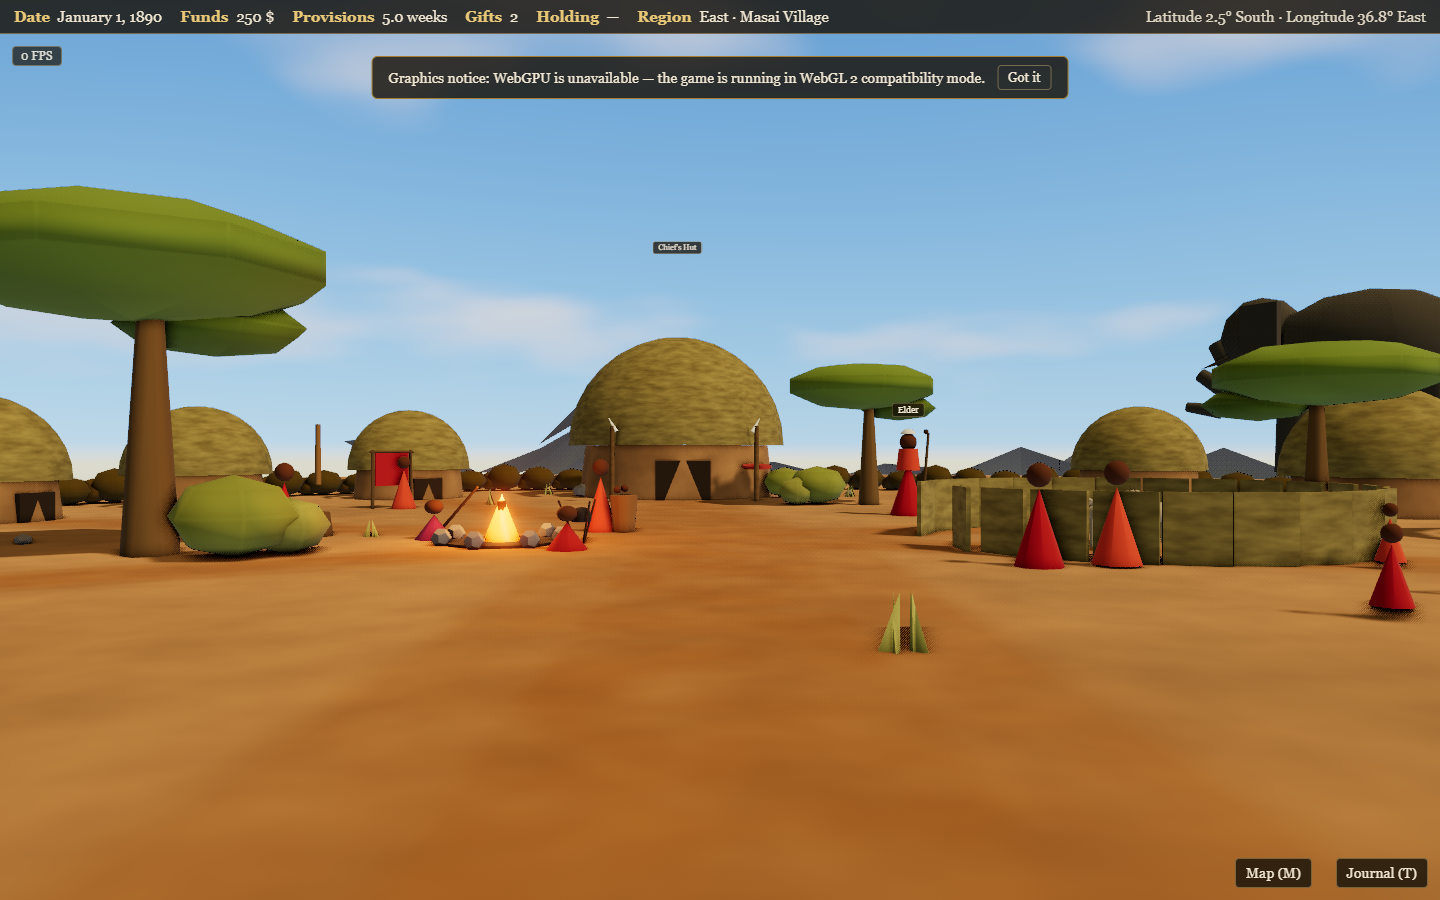
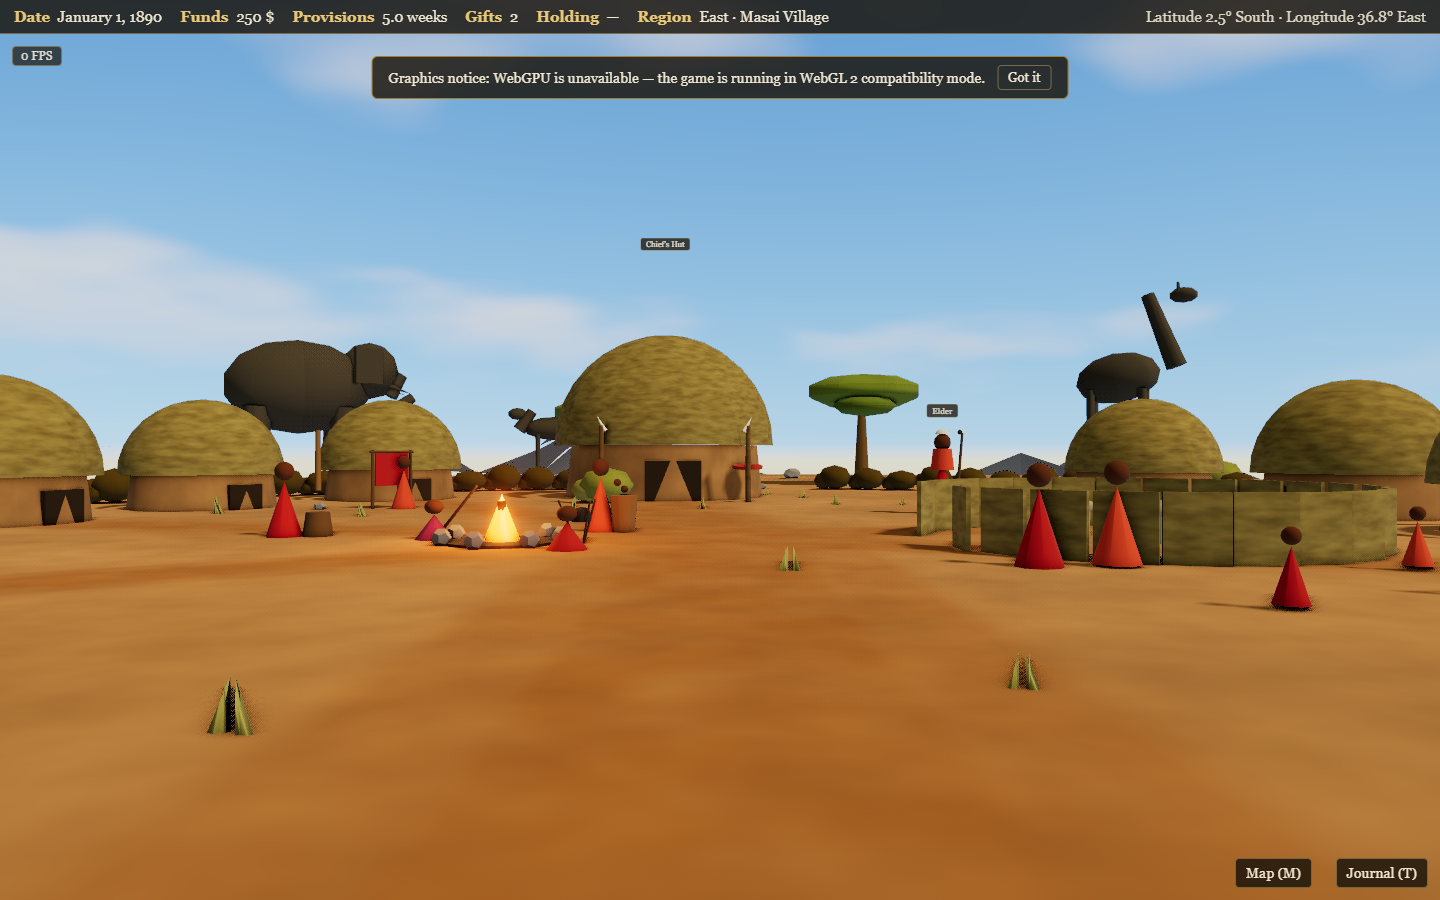
Dress the elephant graveyard with fallen carcasses and strewn ivory
The graveyard was only a floating label. It now renders as a recognizable
site (design.md §4.4/§19): a pale, bone-littered ground patch with eight
fallen, bleached elephant carcasses lying on their sides and scattered
ivory tusks and rib bones, laid out seeded per run. New ElephantGraveyard
component in the bird's-eye scene plus a __graveyard dev hook.

Verification: enrichments.mjs asserts the carcass/tusk/bone counts via
the dev hook and captures a screenshot of the site.

diff --git a/src/scenes/travel/TravelScene.tsx b/src/scenes/travel/TravelScene.tsx
@@ -47,6 +47,8 @@ import {
   buildRock,
   buildTermiteMound,
 } from '../../render/flora'
+import { buildElephant } from '../../render/fauna'
+import { mulberry32 } from '../../world/noise'
 import { Climate } from './Climate'
 import { RegionBorders } from './RegionBorders'
 import { Wildlife } from './Wildlife'
@@ -746,6 +748,103 @@ function HiddenCross({ lat, lon, label, scale = 1 }: { lat: number; lon: number;
   )
 }
 
+/**
+ * Elephant graveyard (design.md §4.4/§19): the site is recognizable from afar
+ * by a field of fallen, bleached elephant carcasses and scattered ivory tusks
+ * and bones over a bone-strewn patch of ground. Layout is seeded per run.
+ */
+function ElephantGraveyard() {
+  const seed = useGame((s) => s.seed)
+  const layout = useMemo(() => {
+    const g = ELEPHANT_GRAVEYARD
+    const center = latLonToWorld(g.lat, g.lon)
+    const groundY = Math.max(0.2, sampleTerrain(g.lat, g.lon, seed).height)
+    const rand = mulberry32((seed ^ 0x51ef4a2d) >>> 0)
+    const carcasses = Array.from({ length: 8 }, () => {
+      const a = rand() * Math.PI * 2
+      const r = 1 + rand() * 4.5
+      return {
+        x: Math.cos(a) * r,
+        z: Math.sin(a) * r,
+        yaw: rand() * Math.PI * 2,
+        roll: (rand() < 0.5 ? 1 : -1) * (Math.PI / 2 + (rand() - 0.5) * 0.35),
+        s: 0.85 + rand() * 0.45,
+      }
+    })
+    const scatter = (n: number) =>
+      Array.from({ length: n }, () => {
+        const a = rand() * Math.PI * 2
+        const r = rand() * 6.5
+        return { x: Math.cos(a) * r, z: Math.sin(a) * r, rot: rand() * Math.PI * 2, tilt: (rand() - 0.5) * 0.5, s: 0.6 + rand() * 0.7 }
+      })
+    return { center, groundY, carcasses, tusks: scatter(22), bones: scatter(16) }
+  }, [seed])
+
+  const elephantGeo = useMemo(() => buildElephant(), [])
+  // Bleached carcass/bone material (flat, ignores the elephant's vertex colors).
+  const boneMat = useMemo(() => new THREE.MeshStandardMaterial({ color: '#c7bda6', roughness: 1, vertexColors: false }), [])
+  const ivoryMat = useMemo(() => new THREE.MeshStandardMaterial({ color: '#e9dec6', roughness: 0.65 }), [])
+  const tuskGeo = useMemo(() => {
+    const g = new THREE.ConeGeometry(0.1, 1.3, 6)
+    g.rotateZ(Math.PI / 2)
+    return g
+  }, [])
+  const ribGeo = useMemo(() => {
+    const g = new THREE.CylinderGeometry(0.05, 0.06, 1.0, 5)
+    g.rotateZ(Math.PI / 2)
+    return g
+  }, [])
+
+  useEffect(() => {
+    if (!import.meta.env.DEV) return
+    const w = window as unknown as Record<string, unknown>
+    w.__graveyard = {
+      carcasses: layout.carcasses.length,
+      tusks: layout.tusks.length,
+      bones: layout.bones.length,
+      x: layout.center.x,
+      z: layout.center.z,
+    }
+    return () => {
+      delete w.__graveyard
+    }
+  }, [layout])
+
+  return (
+    <group position={[layout.center.x, layout.groundY, layout.center.z]}>
+      {/* Bone-strewn pale ground patch. */}
+      <mesh rotation={[-Math.PI / 2, 0, 0]} position={[0, 0.02, 0]} receiveShadow>
+        <circleGeometry args={[8, 28]} />
+        <meshStandardMaterial color="#b9ad90" roughness={1} />
+      </mesh>
+      {/* Fallen, bleached elephant carcasses lying on their sides. */}
+      {layout.carcasses.map((c, i) => (
+        <group key={`c${i}`} position={[c.x, 0, c.z]} rotation={[0, c.yaw, 0]}>
+          <group position={[0, 0.8 * c.s, 0]} rotation={[0, 0, c.roll]} scale={c.s}>
+            <mesh geometry={elephantGeo} material={boneMat} castShadow />
+          </group>
+        </group>
+      ))}
+      {/* Scattered ivory tusks. */}
+      {layout.tusks.map((t, i) => (
+        <mesh
+          key={`t${i}`}
+          geometry={tuskGeo}
+          material={ivoryMat}
+          position={[t.x, 0.12 * t.s, t.z]}
+          rotation={[t.tilt, t.rot, 0]}
+          scale={t.s}
+          castShadow
+        />
+      ))}
+      {/* Scattered rib bones. */}
+      {layout.bones.map((b, i) => (
+        <mesh key={`b${i}`} geometry={ribGeo} material={boneMat} position={[b.x, 0.08 * b.s, b.z]} rotation={[0, b.rot, 0]} scale={b.s} castShadow />
+      ))}
+    </group>
+  )
+}
+
 /** Debug-only markers for hidden objects: grave and treasure caches (§21). */
 function GraveMarker() {
   const t = useStrings()
@@ -969,6 +1068,7 @@ export function TravelScene() {
         <PlaceMarker key={p.id} place={p} />
       ))}
       <LandmarkLabels />
+      <ElephantGraveyard />
       <CampMarkers />
       <GraveMarker />
       <Player />

diff --git a/claude.md b/claude.md
@@ -273,10 +273,15 @@ The POC counts as fulfilled when all points verifiably hold. Details per
     a kill, shore-near animals periodically walk to the water and drink,
     grazers dip their heads on open land. The open landscape is dressed
     with region-typical period elements (baobabs, termite mounds, kopjes,
-    dead trees, papyrus belts along water; `design.md` §19). Verifiable:
+    dead trees, papyrus belts along water; `design.md` §19). The elephant
+    graveyard (`design.md` §4.4) is dressed so it reads at a glance: a
+    field of fallen, bleached elephant carcasses with ivory tusks and
+    bones strewn over a pale bone-littered patch. Verifiable:
     automated checks force the feed state (carcass, head animation, stain,
-    leave phase) and provoke a trampling via an injected elephant
-    (`scripts/verify/settings.mjs`, `scripts/verify/enrichments.mjs`).
+    leave phase), provoke a trampling via an injected elephant, and assert
+    the graveyard's carcass/tusk/bone counts via the dev hook with a
+    screenshot (`scripts/verify/settings.mjs`,
+    `scripts/verify/enrichments.mjs`).
 13. **Real geodata.** The passage "**Real geodata and terrain rendering.**"
     in "## 3. World Model and Map" (`design.md`) is implemented: elevation
     relief from a real DEM (tile-based, LOD-streamed), coasts/rivers/lakes

diff --git a/design.md b/design.md
@@ -90,7 +90,7 @@ Basis of the direction/location hints (mouth/source); navigable by canoe.
 Blue Nile, Nile, White Nile, Jubba, Ruvuma, Zambezi, Limpopo, Vaal, Orange, Sankuru, Kasai, Ubangi, Congo, Benue, Volta, Niger, Senegal. Each river has one named source and one named mouth location.
 
 ### 4.4 Landmarks
-Lakes (Lake Chad, Lake Tana, Lake Albert, Lake Edward, Lake Victoria, Lake Rudolf, Lake Tanganyika, Lake Nyasa), mountains (Toubkal, Emi Koussi, Kilimanjaro, Mount Kenya, Mount Elgon and others), waterfalls (Stanley, Livingstone, Kabalega, Victoria, Augrabies Falls). Special site: the Elephant Graveyard (valuable ivory).
+Lakes (Lake Chad, Lake Tana, Lake Albert, Lake Edward, Lake Victoria, Lake Rudolf, Lake Tanganyika, Lake Nyasa), mountains (Toubkal, Emi Koussi, Kilimanjaro, Mount Kenya, Mount Elgon and others), waterfalls (Stanley, Livingstone, Kabalega, Victoria, Augrabies Falls). Special site: the Elephant Graveyard (valuable ivory) — recognizable at a glance in the bird's-eye view by a field of fallen, bleached elephant carcasses and ivory tusks and bones strewn across a pale, bone-littered patch of ground.
 
 ### 4.5 Region Assignment
 | Region | Landscape | Peoples |